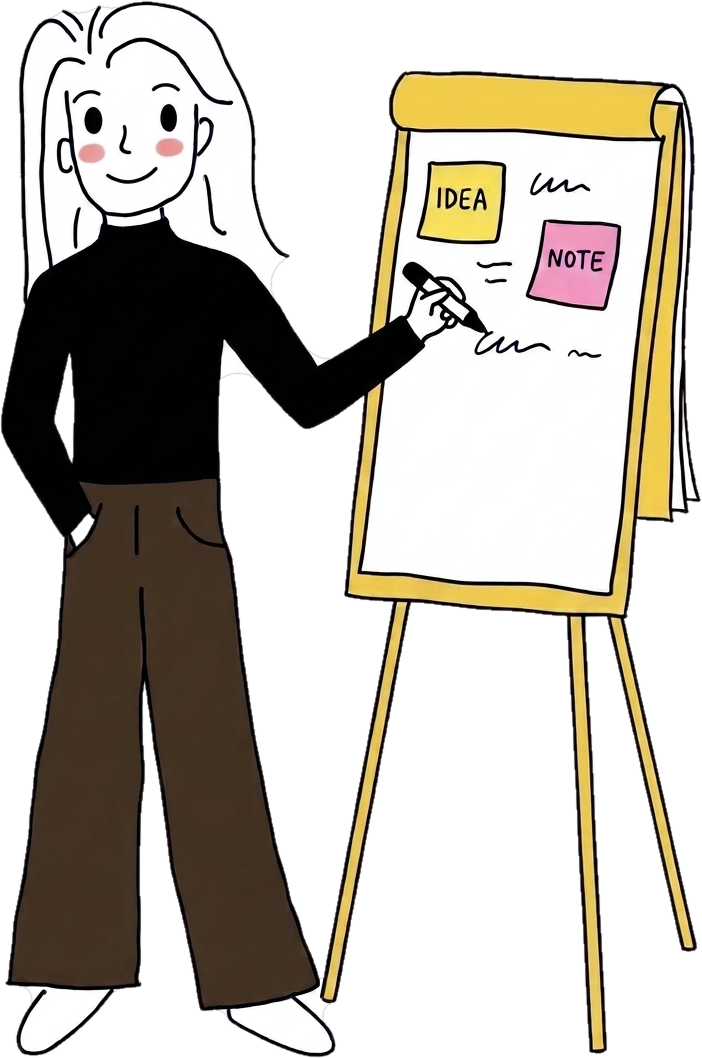
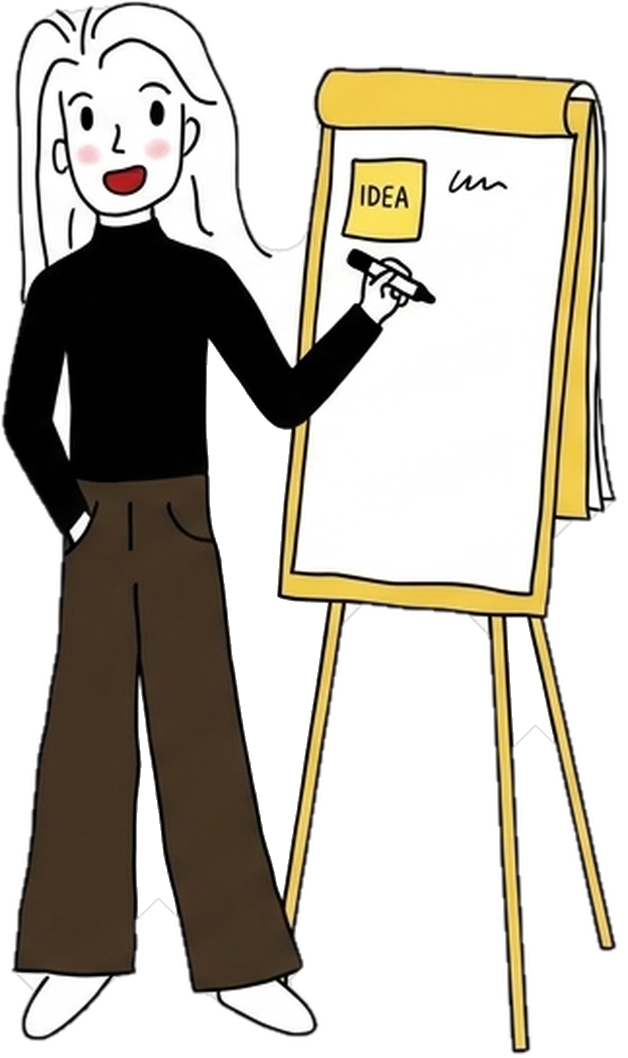
Researcher: new four-frame drawing, aligned, alternating smile and talk
Claude-Session: https://claude.ai/code/session_01J9C2DXKM7bDLRbWdCZy6Xg

diff --git a/index.html b/index.html
@@ -119,7 +119,7 @@ const [P,V]=await Promise.all([fetch('susan/projects.json').then(r=>r.json()),fe
 const ROLES={
  'Food Science':{key:'scientist',name:'Food scientist',col:'#273c93',seq:[0,1,2,3,3,3,2,1,0,0],ms:420,
    line:'Formally trained in food science at Cornell University, I develop products that help future-proof our health and our access to food.'},
- 'Consumer Research':{key:'researcher',name:'Consumer researcher',col:'#c27800',seq:['ta','tb','tc','3','3'],ms:650,
+ 'Consumer Research':{key:'researcher',name:'Consumer researcher',col:'#c27800',seq:[0,1,2,3],ms:700,
    line:'Professionally trained in sensory and qualitative research for three and a half years, shaping AI-powered research methodologies.'},
  'Design':{key:'designer',name:'Designer',col:'#d53626',seq:[2,2,2,3,1,3],ms:480,
    line:'Personally dabbling in branding, UI, digital marketing, content and photography, and finding ways to bring them all together.'}};
@@ -132,7 +132,7 @@ const N=P.length, TAU=Math.PI*2, STEP=TAU/N;
 // character images: 4 turnaround views + the role's own animation frames
 const imgs={};
 function add(name,flip){ const im=new Image(); im.src=`susan/img/${name}.png`; im.alt=''; if(flip) im.style.transform='scaleX(-1)'; me.appendChild(im); imgs[name+(flip?'-m':'')]={im,v:V[name],flip}; }
-['ta','tb','tc'].forEach(t=>add('researcher-'+t)); Object.values(ROLES).forEach(r=>{ for(let j=0;j<4;j++){ add(`${r.key}-v${j}`); add(`${r.key}-${j}`); } add(`${r.key}-v1`,1); add(`${r.key}-v2`,1); });
+Object.values(ROLES).forEach(r=>{ for(let j=0;j<4;j++){ add(`${r.key}-v${j}`); add(`${r.key}-${j}`); } add(`${r.key}-v1`,1); add(`${r.key}-v2`,1); });
 let shown=null;
 function show(name){ const o=imgs[name]; if(!o) return; if(shown&&shown!==o) shown.im.classList.remove('on'); o.im.classList.add('on'); shown=o; place(o); }
 

diff --git a/plate.html b/plate.html
@@ -56,7 +56,7 @@
 const [P,V]=await Promise.all([fetch('susan/projects.json').then(r=>r.json()),fetch('susan/views.json').then(r=>r.json())]);
 const ROLES=[
  {cat:'Food Science',key:'scientist',name:'food scientist',col:'#273c93',seq:[0,1,2,3,3,3,2,1,0,0],ms:420},
- {cat:'Consumer Research',key:'researcher',name:'consumer researcher',col:'#c27800',seq:['ta','tb','tc','3','3'],ms:650},
+ {cat:'Consumer Research',key:'researcher',name:'consumer researcher',col:'#c27800',seq:[0,1,2,3],ms:700},
  {cat:'Design',key:'designer',name:'designer',col:'#d53626',seq:[2,2,2,3,1,3],ms:480}];
 const COURSE=['First course','Second course','Third course'];
 const LOCK=['sensory-bot','prebiotic-soda','alt-protein'];
@@ -65,7 +65,7 @@ const $=id=>document.getElementById(id), me=$('me'), stage=$('stage'), hero=$('h
 const reduce=matchMedia('(prefers-reduced-motion: reduce)').matches;
 const imgs={};
 function add(n,flip){ const im=new Image(); im.src=`susan/img/${n}.png`; im.alt=''; if(flip) im.style.transform='scaleX(-1)'; me.appendChild(im); imgs[n+(flip?'-m':'')]={im,v:V[n],flip}; }
-['ta','tb','tc'].forEach(t=>add('researcher-'+t)); ROLES.forEach(r=>{ for(let j=0;j<4;j++){ add(`${r.key}-v${j}`); add(`${r.key}-${j}`); } add(`${r.key}-v1`,1); add(`${r.key}-v2`,1); });
+ROLES.forEach(r=>{ for(let j=0;j<4;j++){ add(`${r.key}-v${j}`); add(`${r.key}-${j}`); } add(`${r.key}-v1`,1); add(`${r.key}-v2`,1); });
 let shown=null, FH, cx, feetY;
 function layout(){ const W=stage.clientWidth, H=stage.clientHeight, sr=stage.getBoundingClientRect(), pr=document.querySelector('.p-plate').getBoundingClientRect(); cx=W/2; feetY=pr.top-sr.top+pr.height*.62; FH=Math.min(feetY*.92, W*.9); if(shown) place(shown); }
 function place(o){ const v=o.v, k=FH/(v.bot-v.top), fx=o.flip?v.w-v.fx:v.fx;

diff --git a/table/index.html b/table/index.html
@@ -63,7 +63,7 @@ const [P,M] = await Promise.all([fetch('projects.json').then(r=>r.json()), fetch
 const ROLES=[
   {key:'scientist', cat:'Food Science', col:'#273c93', name:'The food scientist', seq:[0,1,2,3,3,3,2,1,0,0], ms:420,
    line:'Formally trained in food science at Cornell University, I develop products that help future-proof our health and our access to food.'},
-  {key:'researcher', cat:'Consumer Research', col:'#f5a800', name:'The consumer researcher', seq:[4,5,6,3,3], ms:650,
+  {key:'researcher', cat:'Consumer Research', col:'#f5a800', name:'The consumer researcher', seq:[0,1,2,3], ms:700,
    line:'Professionally trained in sensory and qualitative research for three and a half years, shaping AI-powered research methodologies.'},
   {key:'designer', cat:'Design', col:'#d53626', name:'The designer', seq:[2,2,2,3,1,3], ms:480,
    line:'Personally dabbling in branding, UI, digital marketing, content and photography, and finding ways to bring them all together.'}
